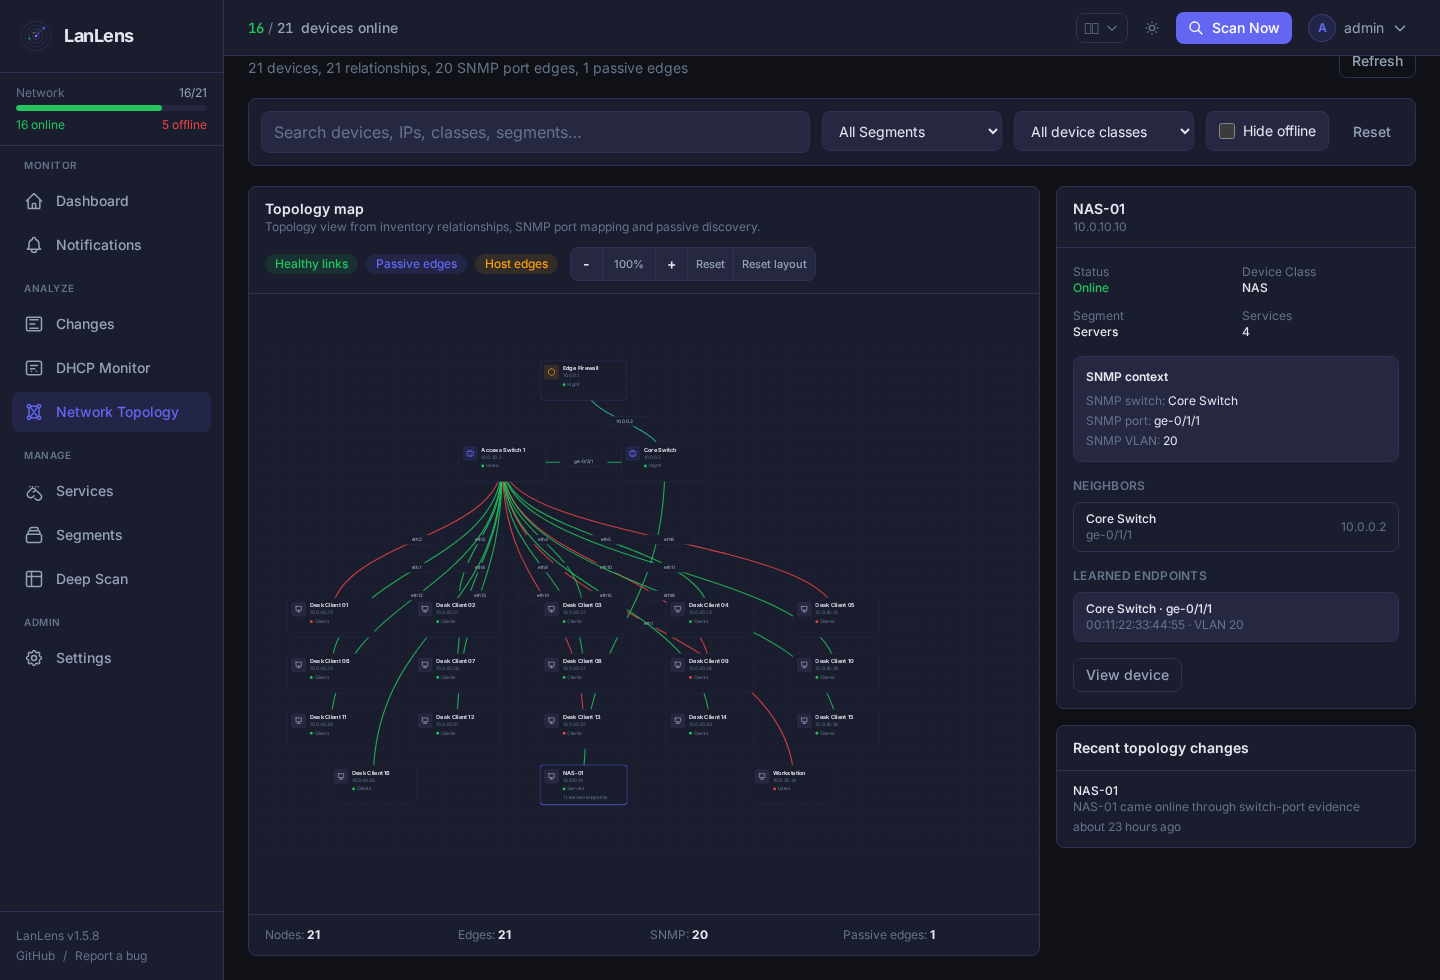
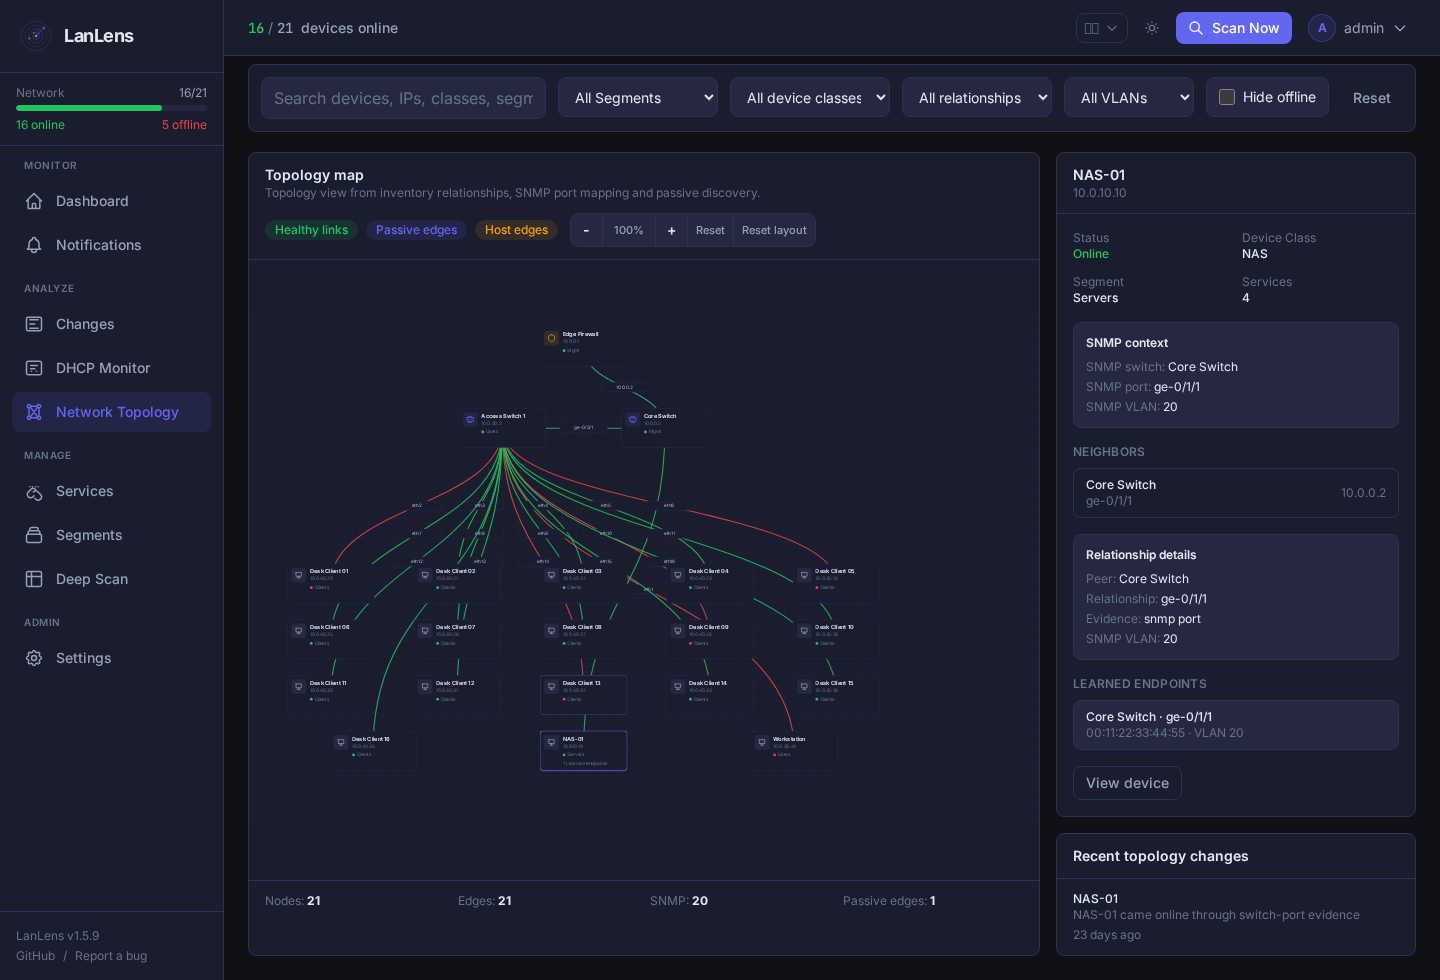
Build 20260718.2110: improve topology filters

diff --git a/frontend/src/pages/NetworkTopology.tsx b/frontend/src/pages/NetworkTopology.tsx
@@ -29,6 +29,8 @@ type NodePosition = {
   y: number
 }
 
+type RelationshipFilter = 'all' | 'snmp' | 'passive' | 'host'
+
 const CANVAS_WIDTH = 1700
 const CANVAS_HEIGHT = 1100
 const MIN_ZOOM = 0.48
@@ -72,6 +74,23 @@ function relationTone(edge: TopologyEdge, target?: TopologyNode) {
   if (edge.relationship_type.includes('ospf') || edge.relationship_type.includes('lldp') || edge.relationship_type.includes('cdp')) return '#3b82f6'
   if (edge.relationship_type.includes('stp') || edge.relationship_type.includes('virtual')) return '#f59e0b'
   return '#64748b'
+}
+
+function relationFilterValue(edge: TopologyEdge): RelationshipFilter {
+  if (edge.relationship_type === 'snmp_port') return 'snmp'
+  if (edge.relationship_type === 'host_guest') return 'host'
+  return 'passive'
+}
+
+function edgeVlan(edge: TopologyEdge) {
+  const value = edge.metadata?.vlan
+  return typeof value === 'string' && value.trim() ? value.trim() : ''
+}
+
+function metadataText(edge: TopologyEdge, key: string) {
+  const value = edge.metadata?.[key]
+  if (typeof value === 'string' || typeof value === 'number') return String(value)
+  return ''
 }
 
 function buildEndpointMap(endpoints: SnmpEndpoint[]) {
@@ -187,6 +206,8 @@ export default function NetworkTopology() {
   const [search, setSearch] = useState('')
   const [segment, setSegment] = useState('')
   const [deviceClass, setDeviceClass] = useState('')
+  const [relationship, setRelationship] = useState<RelationshipFilter>('all')
+  const [vlan, setVlan] = useState('')
   const [hideOffline, setHideOffline] = useState(false)
   const [selectedId, setSelectedId] = useState<number | null>(null)
   const [viewport, setViewport] = useState<MapViewport>(DEFAULT_VIEWPORT)
@@ -239,20 +260,51 @@ export default function NetworkTopology() {
       return a.localeCompare(b)
     })
   ), [topology.nodes])
+  const vlans = useMemo(() => {
+    const values = new Set<string>()
+    topology.nodes.forEach((node) => {
+      if (node.snmp_vlan) values.add(node.snmp_vlan)
+    })
+    topology.edges.forEach((edge) => {
+      const value = edgeVlan(edge)
+      if (value) values.add(value)
+    })
+    return [...values].sort((a, b) => Number(a) - Number(b) || a.localeCompare(b))
+  }, [topology.edges, topology.nodes])
+  const vlanNodeIds = useMemo(() => {
+    if (!vlan) return new Set<number>()
+    const ids = new Set<number>()
+    topology.nodes.forEach((node) => {
+      if (node.snmp_vlan === vlan) ids.add(node.id)
+    })
+    topology.edges.forEach((edge) => {
+      if (edge.relationship_type === 'snmp_port' && edgeVlan(edge) === vlan) {
+        ids.add(edge.source)
+        ids.add(edge.target)
+      }
+    })
+    return ids
+  }, [topology.edges, topology.nodes, vlan])
 
   const filteredNodes = useMemo(() => {
     const needle = normalize(search)
     return topology.nodes.filter((node) => {
       if (segment && node.segment_name !== segment) return false
       if (deviceClass && deviceClassFilterValue(node) !== deviceClass) return false
+      if (vlan && !vlanNodeIds.has(node.id)) return false
       if (hideOffline && !node.is_online) return false
       if (!needle) return true
       return normalize(`${node.label} ${node.ip_address} ${node.device_class} ${node.segment_name}`).includes(needle)
     })
-  }, [deviceClass, hideOffline, search, segment, topology.nodes])
+  }, [deviceClass, hideOffline, search, segment, topology.nodes, vlan, vlanNodeIds])
 
   const visibleIds = new Set(filteredNodes.map((node) => node.id))
-  const visibleEdges = topology.edges.filter((edge) => visibleIds.has(edge.source) && visibleIds.has(edge.target))
+  const visibleEdges = topology.edges.filter((edge) => {
+    if (!visibleIds.has(edge.source) || !visibleIds.has(edge.target)) return false
+    if (relationship !== 'all' && relationFilterValue(edge) !== relationship) return false
+    if (vlan && edge.relationship_type === 'snmp_port' && edgeVlan(edge) !== vlan) return false
+    return true
+  })
   const endpointsByDeviceId = useMemo(() => buildEndpointMap(endpoints), [endpoints])
   const positioned = buildPositions(filteredNodes, visibleEdges, endpointsByDeviceId).map((node) => {
     const customPosition = nodePositions[node.id]
@@ -262,6 +314,10 @@ export default function NetworkTopology() {
   const selected = positionedById.get(selectedId ?? -1) ?? positioned[0] ?? null
   const selectedEndpoints = selected ? endpointsByDeviceId.get(selected.id) ?? [] : []
   const selectedEdges = selected ? visibleEdges.filter((edge) => edge.source === selected.id || edge.target === selected.id) : []
+  const selectedRelationship = selectedEdges[0] || null
+  const selectedRelationshipPeer = selectedRelationship && selected
+    ? topology.nodes.find((node) => node.id === (selectedRelationship.source === selected.id ? selectedRelationship.target : selectedRelationship.source))
+    : null
   const selectedChanges = selected ? changes.filter((change) => change.device_id === selected.id) : []
   const snmpEdgeCount = topology.edges.filter((edge) => edge.relationship_type === 'snmp_port').length
   const passiveEdgeCount = topology.edges.filter((edge) => edge.relationship_type !== 'snmp_port' && edge.relationship_type !== 'host_guest').length
@@ -431,7 +487,7 @@ export default function NetworkTopology() {
         </div>
       </div>
 
-      <div className="grid gap-3 rounded-lg border border-border bg-surface p-3 lg:grid-cols-[minmax(220px,1.2fr)_180px_180px_auto_auto]">
+      <div className="grid gap-3 rounded-lg border border-border bg-surface p-3 lg:grid-cols-[minmax(220px,1.2fr)_160px_160px_150px_130px_auto_auto]">
         <Input
           placeholder={t('topology_search_placeholder')}
           value={search}
@@ -459,6 +515,26 @@ export default function NetworkTopology() {
             </option>
           ))}
         </select>
+        <select
+          aria-label={t('relationship_filter')}
+          value={relationship}
+          onChange={(event) => setRelationship(event.target.value as RelationshipFilter)}
+          className="h-10 rounded-lg border border-border bg-surface2 px-3 text-sm text-text-base outline-none focus:border-primary"
+        >
+          <option value="all">{t('all_relationships')}</option>
+          <option value="snmp">{t('snmp_port_edges')}</option>
+          <option value="passive">{t('passive_edges')}</option>
+          <option value="host">{t('host_edges')}</option>
+        </select>
+        <select
+          aria-label={t('vlan_filter')}
+          value={vlan}
+          onChange={(event) => setVlan(event.target.value)}
+          className="h-10 rounded-lg border border-border bg-surface2 px-3 text-sm text-text-base outline-none focus:border-primary"
+        >
+          <option value="">{t('all_vlans')}</option>
+          {vlans.map((item) => <option key={item} value={item}>VLAN {item}</option>)}
+        </select>
         <label className="flex h-10 items-center gap-2 rounded-lg border border-border bg-surface2 px-3 text-sm text-text-base">
           <input
             type="checkbox"
@@ -468,7 +544,7 @@ export default function NetworkTopology() {
           />
           <span className="whitespace-nowrap">{t('hide_offline_devices')}</span>
         </label>
-        <Button variant="ghost" size="sm" onClick={() => { setSearch(''); setSegment(''); setDeviceClass(''); setHideOffline(false) }}>{t('reset_filters')}</Button>
+        <Button variant="ghost" size="sm" onClick={() => { setSearch(''); setSegment(''); setDeviceClass(''); setRelationship('all'); setVlan(''); setHideOffline(false) }}>{t('reset_filters')}</Button>
       </div>
 
       {loading ? (
@@ -558,6 +634,7 @@ export default function NetworkTopology() {
                           data-testid="topology-edge"
                           data-source-id={edge.source}
                           data-target-id={edge.target}
+                          data-relationship-type={edge.relationship_type}
                           d={`M ${source.x} ${source.y} C ${source.x} ${midY}, ${target.x} ${midY}, ${target.x} ${target.y}`}
                           fill="none"
                           stroke={color}
@@ -692,6 +769,21 @@ export default function NetworkTopology() {
                       })}
                       {selectedEdges.length === 0 && <p className="px-3 py-3 text-xs text-text-subtle">{t('topology_no_neighbors')}</p>}
                     </div>
+                  </div>
+                  <div className="rounded-lg border border-border bg-surface2 p-3 text-xs">
+                    <p className="mb-2 font-semibold text-text-base">{t('relationship_details')}</p>
+                    {selectedRelationship ? (
+                      <div className="space-y-1 text-text-subtle">
+                        <p>{t('peer')}: <span className="text-text-base">{selectedRelationshipPeer?.label || t('unknown')}</span></p>
+                        <p>{t('relationship')}: <span className="text-text-base">{relationLabel(selectedRelationship)}</span></p>
+                        <p>{t('evidence')}: <span className="text-text-base">{selectedRelationship.relationship_type.replace(/_/g, ' ')}</span></p>
+                        {edgeVlan(selectedRelationship) && <p>{t('idoit_export_snmp_vlan')}: <span className="text-text-base">{edgeVlan(selectedRelationship)}</span></p>}
+                        {metadataText(selectedRelationship, 'interface_alias') && <p>{t('interface_alias')}: <span className="text-text-base">{metadataText(selectedRelationship, 'interface_alias')}</span></p>}
+                        {metadataText(selectedRelationship, 'last_seen_at') && <p>{t('last_seen')}: <span className="text-text-base">{formatRelativeTime(metadataText(selectedRelationship, 'last_seen_at'), lang)}</span></p>}
+                      </div>
+                    ) : (
+                      <p className="text-text-subtle">{t('topology_no_neighbors')}</p>
+                    )}
                   </div>
                   <div>
                     <p className="mb-2 text-xs font-semibold uppercase tracking-wide text-text-subtle">{t('learned_endpoints')}</p>

diff --git a/frontend/src/i18n/index.tsx b/frontend/src/i18n/index.tsx
@@ -136,6 +136,16 @@ const translations = {
     topology_no_neighbors: 'No known neighbors yet.',
     topology_no_endpoints: 'No learned SNMP endpoints for this device.',
     topology_recent_changes: 'Recent topology changes',
+    relationship_filter: 'Relationship filter',
+    all_relationships: 'All relationships',
+    snmp_port_edges: 'SNMP port edges',
+    vlan_filter: 'VLAN filter',
+    all_vlans: 'All VLANs',
+    relationship_details: 'Relationship details',
+    peer: 'Peer',
+    relationship: 'Relationship',
+    evidence: 'Evidence',
+    interface_alias: 'Interface alias',
     healthy_links: 'Healthy links',
     passive_edges: 'Passive edges',
     host_edges: 'Host edges',
@@ -1275,6 +1285,16 @@ const translations = {
     topology_no_neighbors: 'Noch keine bekannten Nachbarn.',
     topology_no_endpoints: 'Keine gelernten SNMP-Endpunkte fuer dieses Geraet.',
     topology_recent_changes: 'Aktuelle Topologie-Aenderungen',
+    relationship_filter: 'Beziehungsfilter',
+    all_relationships: 'Alle Beziehungen',
+    snmp_port_edges: 'SNMP-Port-Kanten',
+    vlan_filter: 'VLAN-Filter',
+    all_vlans: 'Alle VLANs',
+    relationship_details: 'Beziehungsdetails',
+    peer: 'Gegenstelle',
+    relationship: 'Beziehung',
+    evidence: 'Nachweis',
+    interface_alias: 'Interface-Alias',
     healthy_links: 'Gesunde Links',
     passive_edges: 'Passive Kanten',
     host_edges: 'Host-Kanten',
@@ -2429,6 +2449,16 @@ const translations = {
     topology_no_neighbors: 'Nessun vicino noto.',
     topology_no_endpoints: 'Nessun endpoint SNMP appreso per questo dispositivo.',
     topology_recent_changes: 'Modifiche recenti alla topologia',
+    relationship_filter: 'Filtro relazioni',
+    all_relationships: 'Tutte le relazioni',
+    snmp_port_edges: 'Edge porte SNMP',
+    vlan_filter: 'Filtro VLAN',
+    all_vlans: 'Tutte le VLAN',
+    relationship_details: 'Dettagli relazione',
+    peer: 'Peer',
+    relationship: 'Relazione',
+    evidence: 'Evidenza',
+    interface_alias: 'Alias interfaccia',
     healthy_links: 'Link sani',
     passive_edges: 'Relazioni passive',
     host_edges: 'Relazioni host',
@@ -3568,6 +3598,16 @@ const translations = {
     topology_no_neighbors: '暂无已知邻居。',
     topology_no_endpoints: '此设备暂无学习到的 SNMP 端点。',
     topology_recent_changes: '最近拓扑变更',
+    relationship_filter: '关系筛选',
+    all_relationships: '全部关系',
+    snmp_port_edges: 'SNMP 端口边',
+    vlan_filter: 'VLAN 筛选',
+    all_vlans: '全部 VLAN',
+    relationship_details: '关系详情',
+    peer: '对端',
+    relationship: '关系',
+    evidence: '证据',
+    interface_alias: '接口别名',
     healthy_links: '健康链路',
     passive_edges: '被动边',
     host_edges: '主机边',

diff --git a/frontend/e2e/network-topology.spec.ts b/frontend/e2e/network-topology.spec.ts
@@ -250,6 +250,14 @@ test('network topology visualizes inventory and SNMP relationships', async ({ pa
   await expect(page.getByTestId('topology-node')).toHaveCount(16)
   await page.getByLabel('Hide offline').uncheck()
   await expect(page.locator('[data-testid="topology-node"][data-node-id="5"]')).toBeVisible()
+  await page.getByLabel('Relationship filter').selectOption('passive')
+  await expect(page.locator('[data-testid="topology-edge"][data-relationship-type="snmp_port"]')).toHaveCount(0)
+  await expect(page.locator('[data-testid="topology-edge"][data-relationship-type="ospf_neighbor"]')).toHaveCount(1)
+  await page.getByLabel('Relationship filter').selectOption('all')
+  await page.getByLabel('VLAN filter').selectOption('20')
+  await expect(page.locator('[data-testid="topology-node"][data-node-id="4"]')).toBeVisible()
+  await expect(page.locator('[data-testid="topology-edge"][data-relationship-type="snmp_port"][data-target-id="4"]')).toHaveCount(1)
+  await page.getByLabel('VLAN filter').selectOption('')
   await page.getByRole('button', { name: 'Zoom in' }).click()
   await expect(page.getByText('116%')).toBeVisible()
   await page.getByTestId('topology-map').hover()
@@ -294,6 +302,9 @@ test('network topology visualizes inventory and SNMP relationships', async ({ pa
   }
   await page.locator('[data-testid="topology-node"][data-node-id="4"]').click()
   await expect(page.getByText('Core Switch · ge-0/1/1')).toBeVisible()
+  await expect(page.getByText('Relationship details')).toBeVisible()
+  await expect(page.getByText('Peer:')).toBeVisible()
+  await expect(page.getByText('SNMP VLAN:').first()).toBeVisible()
   await expect(page.getByText('NAS-01 came online through switch-port evidence')).toBeVisible()
 
   await page.screenshot({ path: testInfo.outputPath('lanlens-network-topology.png'), fullPage: false })

diff --git a/frontend/src/version.ts b/frontend/src/version.ts
@@ -1,6 +1,6 @@
 export const APP_VERSION = '1.5.9'
 export const GITHUB_REPO = 'AlexRosbach/LanLens'
-export const BUILD_CODE = import.meta.env.VITE_LANLENS_BUILD_CODE || '20260718.0113'
+export const BUILD_CODE = import.meta.env.VITE_LANLENS_BUILD_CODE || '20260718.2110'
 export const BUILD_COMMIT = import.meta.env.VITE_LANLENS_BUILD_COMMIT || 'unknown'
 export const BUILD_BRANCH = import.meta.env.VITE_LANLENS_BUILD_BRANCH || 'unknown'
 export const BUILD_CREATED = import.meta.env.VITE_LANLENS_BUILD_CREATED || 'unknown'

diff --git a/backend/version.py b/backend/version.py
@@ -1,7 +1,7 @@
 import os
 
 APP_VERSION = os.getenv("LANLENS_APP_VERSION", "1.5.9")
-BUILD_CODE = os.getenv("LANLENS_BUILD_CODE", "20260718.0113")
+BUILD_CODE = os.getenv("LANLENS_BUILD_CODE", "20260718.2110")
 BUILD_COMMIT = os.getenv("LANLENS_BUILD_COMMIT", "unknown")
 BUILD_BRANCH = os.getenv("LANLENS_BUILD_BRANCH", "unknown")
 BUILD_CREATED = os.getenv("LANLENS_BUILD_CREATED", "unknown")

diff --git a/docs/documentation.md b/docs/documentation.md
@@ -579,7 +579,7 @@ When a linked observation carries a high- or medium-confidence device-class infe
 
 The inventory topology API combines existing device, host/guest and SNMP switch-port relationships with passive topology hints when both endpoints are already known devices. OSPF hello neighbors can add `ospf_neighbor` edges, HA virtual IP observations can add VRRP/HSRP virtual-IP edges, and LLDP/CDP/STP advertisements can add layer-2 edges when the advertised chassis, bridge or device identity matches an existing LanLens device. Unknown external neighbors remain visible in the passive discovery observation metadata instead of creating synthetic inventory devices.
 
-The optional **Network Topology** page appears only when **Settings -> Features -> Network Topology** is enabled together with Advanced View. It renders the existing topology API as a read-only map, shows SNMP port/VLAN context from learned endpoint data, filters by segment or device class, and keeps a compact recent-change panel beside the selected device. The map can be dragged, zoomed with the mouse wheel and adjusted through inline zoom/reset controls. This is useful today when LanLens has either SNMP bridge-table data, passive LLDP/CDP/STP/OSPF observations or manually/scan-created host relationships; environments without those signals still show discovered devices but have fewer useful edges.
+The optional **Network Topology** page appears only when **Settings -> Features -> Network Topology** is enabled together with Advanced View. It renders the existing topology API as a read-only map, shows SNMP port/VLAN context from learned endpoint data, filters by segment, device class, relationship type or VLAN, and keeps compact neighbor, relationship-evidence and recent-change panels beside the selected device. The selected relationship panel explains the peer, evidence type, VLAN, interface alias and last-seen context when those values are available. The map can be dragged, zoomed with the mouse wheel and adjusted through inline zoom/reset controls. This is useful today when LanLens has either SNMP bridge-table data, passive LLDP/CDP/STP/OSPF observations or manually/scan-created host relationships; environments without those signals still show discovered devices but have fewer useful edges.
 
 ![LanLens network topology map](screenshots/lanlens-network-topology.png)
 

diff --git a/README.md b/README.md
@@ -35,7 +35,7 @@ Why people use it:
 - **Less spreadsheet work:** turn scan results into a maintained self-hosted network inventory.
 - **Local by default:** no cloud account is required, and there is no product telemetry pipeline.
 
-Optional expert views add SNMP switch-port context, custom SNMP OID/table polling by device class or target tag, a feature-gated network topology map with pan, zoom, draggable device cards and offline-device filtering, passive LLDP/CDP/STP/OSPF discovery hints, services, TLS checks, notifications, and CMDB/i-doit integration when you need them. Credentials are masked in API responses; protect the database volume and backups because configured secrets live there.
+Optional expert views add SNMP switch-port context, custom SNMP OID/table polling by device class or target tag, a feature-gated network topology map with pan, zoom, draggable device cards, offline-device filtering, relationship/VLAN filters and selected-link evidence details, passive LLDP/CDP/STP/OSPF discovery hints, services, TLS checks, notifications, and CMDB/i-doit integration when you need them. Credentials are masked in API responses; protect the database volume and backups because configured secrets live there.
 
 > [!IMPORTANT]
 > Use LanLens only in networks you own or where you have explicit permission to scan and monitor devices. Network discovery and port scanning can be misused against third-party systems.

diff --git a/CHANGELOG.md b/CHANGELOG.md
@@ -9,6 +9,10 @@ All notable changes to this project should be documented in this file.
 - Continue hardening Network Topology and SNMP workflows after the 1.5.8 topology release, especially setup clarity, diagnostics and mixed-vendor switch visibility.
 - Keep early planning open for traffic-awareness and recommendation work while avoiding new runtime dependencies until the license and deployment impact is reviewed.
 
+### New Features
+- Added Network Topology relationship and VLAN filters so operators can focus the map on SNMP port edges, passive topology hints, host relationships or a specific learned VLAN.
+- Added selected-relationship details to the Network Topology side panel, including peer, evidence type, VLAN, interface alias and last-seen context when those values are available.
+
 ## v1.5.8 — Network topology and custom SNMP queries
 
 ### New Features
